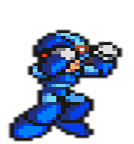
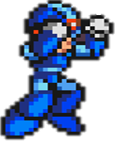
Animation added

diff --git a/SwingAlong/core/src/com/swing/along/SwingAlong.java b/SwingAlong/core/src/com/swing/along/SwingAlong.java
@@ -6,7 +6,7 @@
 
 package com.swing.along;
 
-
+import java.util.*;
 import com.badlogic.gdx.ApplicationAdapter;
 
 
@@ -29,11 +29,15 @@ public class SwingAlong extends ApplicationAdapter implements InputProcessor{
 	int angle = 90;
 	int bkgX1, bkgX2;
 	
+	boolean animation = false;
+	
 	boolean right = true;//vines start swinging right
 	
 	Texture bkg;
-	Vine[] vines;
+	LinkedList<Vine> vines;
 	Player p1, p2;
+	
+	float stateTime;
 	
 	@Override
 	public void create () {
@@ -41,20 +45,24 @@ public class SwingAlong extends ApplicationAdapter implements InputProcessor{
 		batch = new SpriteBatch();
 		sr = new ShapeRenderer();
 		
+		stateTime = 0f;
+		
 		bkgX1 = 0;
 		bkgX2 = 0;
 		
 		bkg = new Texture("bkg.png");
 		
-		vines = new Vine[15];
+		vines = new LinkedList<Vine>();
 		
-		for(int i=0; i<vines.length; i++){
-			vines[i] = new Vine("vine.png");
-			vines[i].setPos(400+i*500,800);
+		//15 vines
+		for(int i=0; i<15; i++){
+			vines.add(new Vine("vine.png"));
+			vines.get(i).setPos(400+i*500,800);
 			
 		}
 		
-		p1 = new Player("Megaman.png",100,600);
+		String[] p1Frames = {"megaman_1.png","megaman_2.png","megaman_3.png","megaman_4.png"};
+		p1 = new Player(p1Frames,100,600);
 		//p1.setVine();
 		
 		Gdx.input.setInputProcessor(this);
@@ -67,6 +75,8 @@ public class SwingAlong extends ApplicationAdapter implements InputProcessor{
 		Gdx.gl.glClearColor(1, 0, 0, 1);
 		Gdx.gl.glClear(GL20.GL_COLOR_BUFFER_BIT);
 		
+		stateTime += Gdx.graphics.getDeltaTime();
+		
 		
 		batch.begin();
 		
@@ -78,25 +88,45 @@ public class SwingAlong extends ApplicationAdapter implements InputProcessor{
 		updateBkg();
 		
 		updateAngle();
-		
-		if(p1.onVine()){
-			p1.setRotation(angle-180);
-			p1.setPos();
-		}
 
-		p1.render(batch);
+		for(Vine v : vines){
+			if(p1.getPlayerRect().overlaps(v.getVine().getBoundingRectangle())){
+				p1.setVine(v);
+			}
+		}		
 		
-		for(int i=0; i<vines.length; i++){
+		if(animation){
+			p1.renderAnimation(stateTime, batch);
+			if(p1.isFinishedAnimation(stateTime)){
+				animation = false;
+			}
+		}
+		
+		else{
+			if(p1.onVine()){
+				p1.setPos();
+				if(vines.indexOf(p1.getVine())%2==0){
+					p1.setRotation(angle-180);
+				}
+				else{
+					p1.setRotation(-angle-180);
+				}
+			}
 			
-			if(i%2==0){
-				vines[i].setRotation(angle);
+			p1.render(batch);
+		}
+		
+		for(Vine v : vines){
+			
+			if(vines.indexOf(v)%2==0){
+				v.setRotation(angle);
 			}
 			
 			else{
-				vines[i].setRotation(-angle);
+				v.setRotation(-angle);
 			}
 			
-			vines[i].render(batch);
+			v.render(batch);
 		}
 		
 
@@ -104,6 +134,8 @@ public class SwingAlong extends ApplicationAdapter implements InputProcessor{
 		
 		sr.begin(ShapeType.Filled);
 		sr.setColor(Color.GREEN);
+		
+		sr.rect(p1.getPosRect().x, p1.getPosRect().y, p1.getPosRect().width, p1.getPosRect().height);
 		
 		//sr.rect(p1.getOriginX()+p1X, p1.getOriginY()+p1Y, 10, 10);
 		
@@ -117,7 +149,7 @@ public class SwingAlong extends ApplicationAdapter implements InputProcessor{
 		sr.end();
 		
 		try{
-			Thread.sleep(50);
+			Thread.sleep(100);
 		}
 		
 		catch(InterruptedException e){
@@ -126,19 +158,20 @@ public class SwingAlong extends ApplicationAdapter implements InputProcessor{
 	}
 	
 	public void updateAngle(){
-		if(angle<=270 && right){
+		if(angle<250 && right){
 			angle += 10;
 		}
 		
-		if(angle==270){
+		if(angle==250){
 			right = false;
+			angle-=10;
 		}
 		
-		if(angle<=270 && !right){
+		if(angle<250 && !right){
 			angle -= 10;
 		}
 		
-		if(angle==90 && !right){
+		if(angle==110 && !right){
 			right = true;
 		}
 	}
@@ -146,7 +179,7 @@ public class SwingAlong extends ApplicationAdapter implements InputProcessor{
 	public void updateBkg(){
 		if(bkgX1<0){
 			for(int i=0; i<bkgX1/-1000+1; i++){
-				batch.draw(bkg, 1000*(i+1)+bkgX1, 400, Gdx.graphics.getWidth(), Gdx.graphics.getHeight()/2);
+				batch.draw(bkg, 1000*(i+1)+bkgX1, 400, Gdx.graphics.getWidth(), Gdx.graphics.getHeight()/2);		
 			}
 		}
 	}
@@ -154,16 +187,26 @@ public class SwingAlong extends ApplicationAdapter implements InputProcessor{
 	//implement ALL methods of InputProcessor
 	public boolean keyDown(int keycode){
 		if(keycode == Keys.RIGHT){
-			bkgX1 -= 20;
-			for(Vine vine : vines){
-				vine.changeX(-20);
+			//p1.changePos(50,0);
+			//p1.updateFrame();
+			
+			animation = true;
+			stateTime = 0f;
+			bkgX1-=300;
+			for(Vine v : vines){
+				v.translateX(-300);
 			}
+
 		}
 		return true;
 	}
 	
 	public boolean keyUp(int keycode){
-		//if(keycode == Keys.UP || keycode == Keys.DOWN ||
+		if(keycode == Keys.UP || keycode == Keys.DOWN ||
+				keycode == Keys.RIGHT || keycode == Keys.LEFT){
+			//animation = false;
+			//p1.updateFrame();
+		}
 		
 		return true;
 	}

diff --git a/SwingAlong/core/src/com/swing/along/Player.java b/SwingAlong/core/src/com/swing/along/Player.java
@@ -1,10 +1,12 @@
 package com.swing.along;
 
 import com.badlogic.gdx.graphics.Texture;
-
+import com.badlogic.gdx.graphics.g2d.Animation;
 import com.badlogic.gdx.graphics.g2d.Sprite;
 import com.badlogic.gdx.graphics.g2d.SpriteBatch;
+import com.badlogic.gdx.graphics.g2d.TextureRegion;
 import com.badlogic.gdx.math.MathUtils;
+import com.badlogic.gdx.math.Rectangle;
 import com.badlogic.gdx.math.Vector2;
 import com.badlogic.gdx.physics.box2d.Body;
 import com.badlogic.gdx.physics.box2d.BodyDef;
@@ -18,16 +20,36 @@ public class Player {
 	//stores player's x and y value
 	//stores the vine that the current player is on
 	Sprite player;
+	Texture[] playerTextures;
+	Texture currentFrame;
 	float x,y;
 	Vine vine;
 	
+	int frame = 0;
+	
+	Animation<Texture> jumpAnimation;
+	
 	//constructor method
-	public Player(String file, float x, float y){
-		player = new Sprite(new Texture(file));
+	public Player(String[] frames, float x, float y){
+		
+		player = new Sprite(new Texture("Megaman.png"));
+		
+		playerTextures = new Texture[frames.length];
+		
+		for(int i=0; i<frames.length; i++){
+			playerTextures[i] = new Texture(frames[i]);
+		}
+		
+		player = new Sprite(playerTextures[0]);
+		//player.setCenter(100, 100);
+		
+		jumpAnimation = new Animation<Texture>(0.1f, playerTextures);
+		
 		//starting position on platform
 		this.x = x;
 		this.y = y;
-		player.setPosition(x, y);
+		
+		//player.setPosition(x, y);
 	}
 	
 	public void setVine(Vine v){
@@ -42,21 +64,57 @@ public class Player {
 		return false;
 	}
 	
-	public void setPos(){
-		x = -80+(float)(vine.getX()-vine.getWidth()/2-vine.getHeight()*Math.cos(Math.toRadians(vine.getRotation()-90)));
-		y = -30+(float)(vine.getY()-vine.getHeight()/2-vine.getHeight()*Math.sin(Math.toRadians(vine.getRotation()-90)));
-		
-		player.setPosition(x, y);
+	public Vine getVine(){
+		return vine;
 	}
+	
+	public void changePos(float shiftX, float shiftY){
+		x += shiftX;
+		y += shiftY;
+		
+		//player.setPosition(x, y);
+	}
+	
+	public void setPos(){
+		x = (float)(vine.getX()-vine.getWidth()-vine.getHeight()*Math.cos(Math.toRadians(vine.getRotation()-90)));
+		y = (float)(vine.getY()-vine.getHeight()/2-vine.getHeight()*Math.sin(Math.toRadians(vine.getRotation()-90)));
+		
+		//player.setPosition(x, y);
+	}
+	
 	
 	public void setRotation(int angle){
 		player.setRotation(angle);
 	}
 	
+	
 	public void render(SpriteBatch batch){
 		player.draw(batch);
+		//batch.draw(playerTextures[0],x,y);
+	}
+	
+	public void renderAnimation(float time, SpriteBatch batch){
+		currentFrame = jumpAnimation.getKeyFrame(time, true);
+		x+=50;
+		
+		batch.draw(currentFrame,x,y);
+	}
+	
+	public boolean isFinishedAnimation(float stateTime){
+		
+		if(jumpAnimation.isAnimationFinished(stateTime)){
+			return true;
+		}
+		return false;
 	}
 	
 	
+	public Rectangle getPlayerRect(){
+		return new Rectangle(x,y,playerTextures[0].getWidth(),playerTextures[0].getHeight());
+	}
+	
+	public Rectangle getPosRect(){
+		return new Rectangle(x,y,10,10);
+	}
 	
 }

diff --git a/SwingAlong/core/src/com/swing/along/Vine.java b/SwingAlong/core/src/com/swing/along/Vine.java
@@ -23,8 +23,6 @@ public class Vine {
 	public void setPos(float x, float y){
 		this.x = x;
 		this.y = y;
-		
-		vine.setPosition(x, y);
 	}
 	
 	public void setRotation(int angle){
@@ -32,11 +30,13 @@ public class Vine {
 		vine.setRotation(angle);
 	}
 	
-	public void changeX(int shift){
-		x += shift;
+	public void translateX(int tx){
+		x += tx;
 	}
 	
+	
 	public void render(SpriteBatch batch){
+		vine.setPosition(x, y);
 		vine.draw(batch);
 	}
 	
@@ -60,6 +60,8 @@ public class Vine {
 		return angle;
 	}
 	
-	
+	public Sprite getVine(){
+		return vine;
+	}
 	
 }

diff --git a/pic split/split.py b/pic split/split.py
@@ -1,6 +1,6 @@
 from pygame import *
 init()
-BASE = "Naruto"
+BASE = "Megaman vine swinging sprite"
 pic1 = image.load(BASE+".png").convert(32,SRCALPHA)
 
 wid,hi = pic1.get_size()
